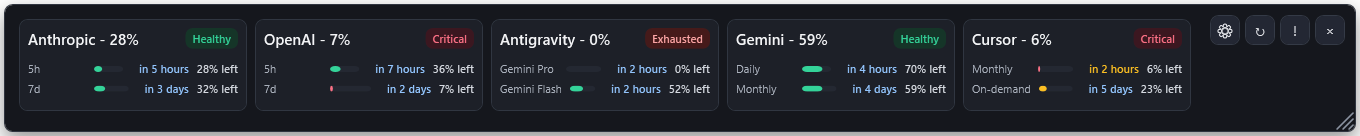
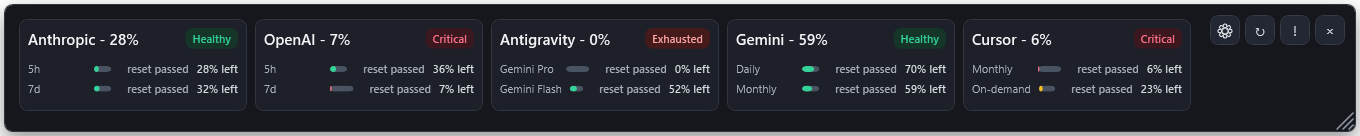
Regenerate README screenshots

diff --git a/AGENTS.md b/AGENTS.md
@@ -11,6 +11,11 @@
   - `dotnet run --project .\tools\AIUsageMonitor.Diagnostics -- refresh --fake --scenario failure`
   - `dotnet run --project .\tools\AIUsageMonitor.Diagnostics -- refresh --fake --scenario cancel --cancel-after-ms 500`
 - Optional live diagnostics are opt-in only: `dotnet run --project .\tools\AIUsageMonitor.Diagnostics -- refresh --live --timeout-seconds 120`.
+- README screenshots are generated from `usage.fake.json` with the app's built-in screenshot mode, which defaults to 100% UI scale. Regenerate them with:
+  - `dotnet run --project .\AIUsageMonitor.csproj -- --screenshot .\docs\screenshot-full.png --screenshot-size 1280x740`
+  - `dotnet run --project .\AIUsageMonitor.csproj -- --screenshot .\docs\screenshot-compact.png --screenshot-size 1360x136`
+  - `dotnet run --project .\AIUsageMonitor.csproj -- --screenshot .\docs\screenshot-mini-strip.png --screenshot-size 760x60`
+  - `Copy-Item .\docs\screenshot-full.png .\docs\screenshot.png -Force`
 - When the user says to bump the version, increment it by 0.01, for example `V1.02` becomes `V1.03`. Update both `Services\AppMetadata.cs` and the README download section's current version and latest updated date.
 - `package-release.bat` publishes a self-contained win-x64 single-file build, signs it, verifies the signature, copies `build\SethsAIUsageMonitor.exe`, and creates `artifacts\SethsAIUsageMonitor-win-x64.zip`.
 - Keep this `AGENTS.md` file updated whenever project workflow, architecture, test commands, diagnostics, packaging, signing, or release expectations change.
